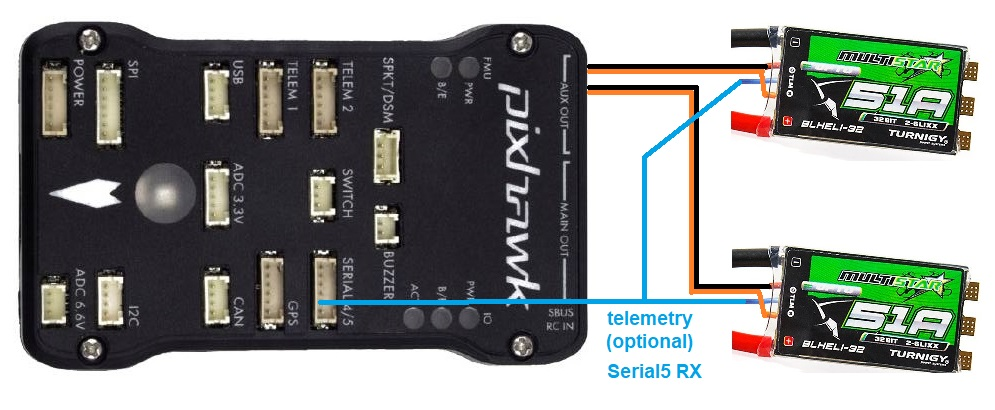
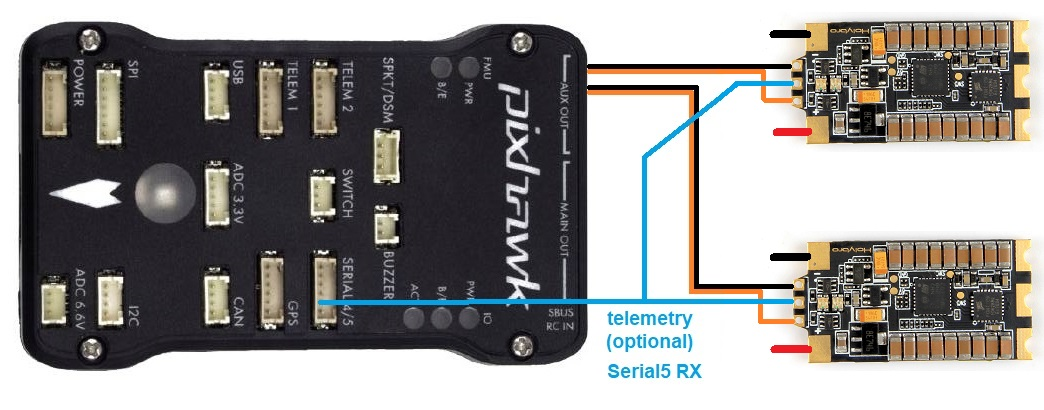
Common: replace multistart with holybro blheli32 ESC

diff --git a/common/source/docs/common-dshot.rst b/common/source/docs/common-dshot.rst
@@ -31,14 +31,12 @@ Dshot and telemetry ESC's provide an advantage over traditional ESC's for a numb
 Where to buy
 ============
 
-`blheli32.com provides this list of BLHeli compatible ESCs <http://www.blheli32.com/list-of-blheli_32-escs/>`__.
-We recommend choosing one that has the telemetry wire pre-soldered (see blue wire below).
+A `search for "BLHeli32 shopping" <https://www.google.com/search?q=blheli32&tbm=shop>`__ turns up many compatible ESCs.  Look for an ESC which includes the telemetry wire connector like the `HolyBro Tekko32 shown below <https://shop.holybro.com/holybro-tekko32-esc35a_p1074.html>`__
 
-.. image:: ../../../images/dshot-telemwire.jpg
-    :target: https://hobbyking.com/en_us/turnigy-multistar-32bit-51a-race-spec-esc-2-6s-opto.html
-    :width: 400px
+.. image:: ../../../images/dshot-telemwire.png
+    :target: https://shop.holybro.com/holybro-tekko32-esc35a_p1074.html
 
-*image courtesy of hobbyking.com*
+*image courtesy of holybro.com*
 
 Connecting and Configuring
 ==========================
